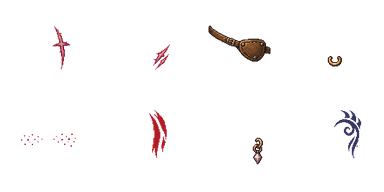
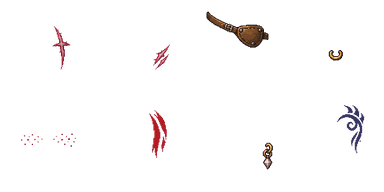
M8.34: face details sit where they belong
Eyepatch over the eye, nose ring on the nose, earring on the earlobe,
temple tattoo, head bandage above the eyes, black eye, cut lip and
bloodied cloth all moved onto their spots (per-cell fits in cut-faces.py,
measured against the heads; extras.png and injuries.png re-cut).

Claude-Session: https://claude.ai/code/session_01AEHRuyL7H8HzouUj5rBoPL

diff --git a/src/version.ts b/src/version.ts
@@ -1,6 +1,6 @@
 // The version shown at the top of the page. Bump it by hand with each merged PR:
 // M<milestone>.<part>, e.g. M6.05 -> M6.06, or M7.01 when a new milestone starts.
-export const GAME_VERSION = "M8.33";
+export const GAME_VERSION = "M8.34";
 
 // Short commit hash, filled in by Vite at build time (see vite.config.ts).
 declare const __BUILD_COMMIT__: string | undefined;

diff --git a/scripts/cut-faces.py b/scripts/cut-faces.py
@@ -51,8 +51,19 @@ OWN = {
     ("beards", 3): (1.0, 0, 14),
     ("beards", 6): (0.92, 0, 17),  # the braids
     ("beards", 7): (1.0, 0, 12),  # mutton chops
-    ("injuries", 0): (1.0, 0, -10),  # the head bandage goes round the brow
+    # Face details were drawn too low on the head (Mike saw an eyepatch on a
+    # cheek and an earring in one, M8.34): each is moved onto its own spot,
+    # measured against the heads (eyes y~36, nose tip ~51, mouth ~57, earlobe
+    # x~75 y~49).
+    ("extras", 2): (1.0, -2, -14),  # eyepatch over the eye
+    ("extras", 3): (1.0, 1, -6),  # nose ring hangs from the nose, not the chin
+    ("extras", 6): (1.0, 10, 5),  # earring on the earlobe
+    ("extras", 7): (1.0, 3, -5),  # tattoo on the temple
+    ("injuries", 0): (0.94, 0, -20),  # the head bandage goes round the brow
+    ("injuries", 2): (1.0, 1, -15),  # black eye round the eye
+    ("injuries", 3): (1.0, 0, -6),  # cut lip on the lip
     ("injuries", 4): (1.0, 0, 24),  # the sling sits on the shoulder
+    ("injuries", 5): (1.0, 0, -10),  # bloodied cloth on the forehead
     ("hats", 0): (1.22, 0, -11),  # miner's cap
     ("hats", 1): (1.32, 0, -10),  # nasal helm
     ("hats", 2): (1.32, 0, -8),  # helmet and coif
